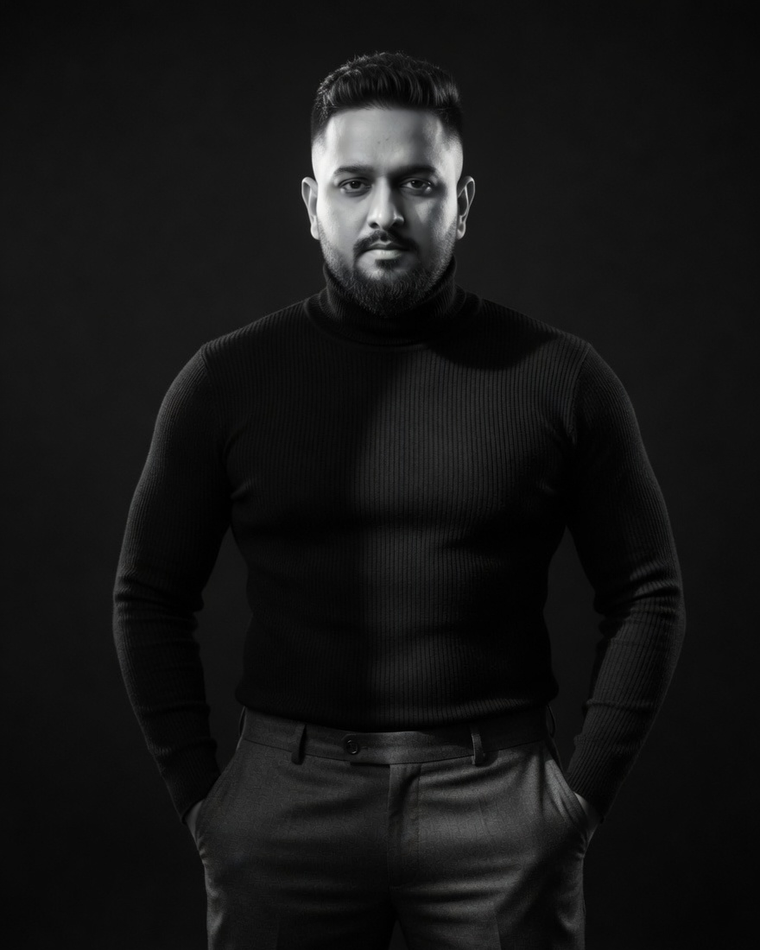
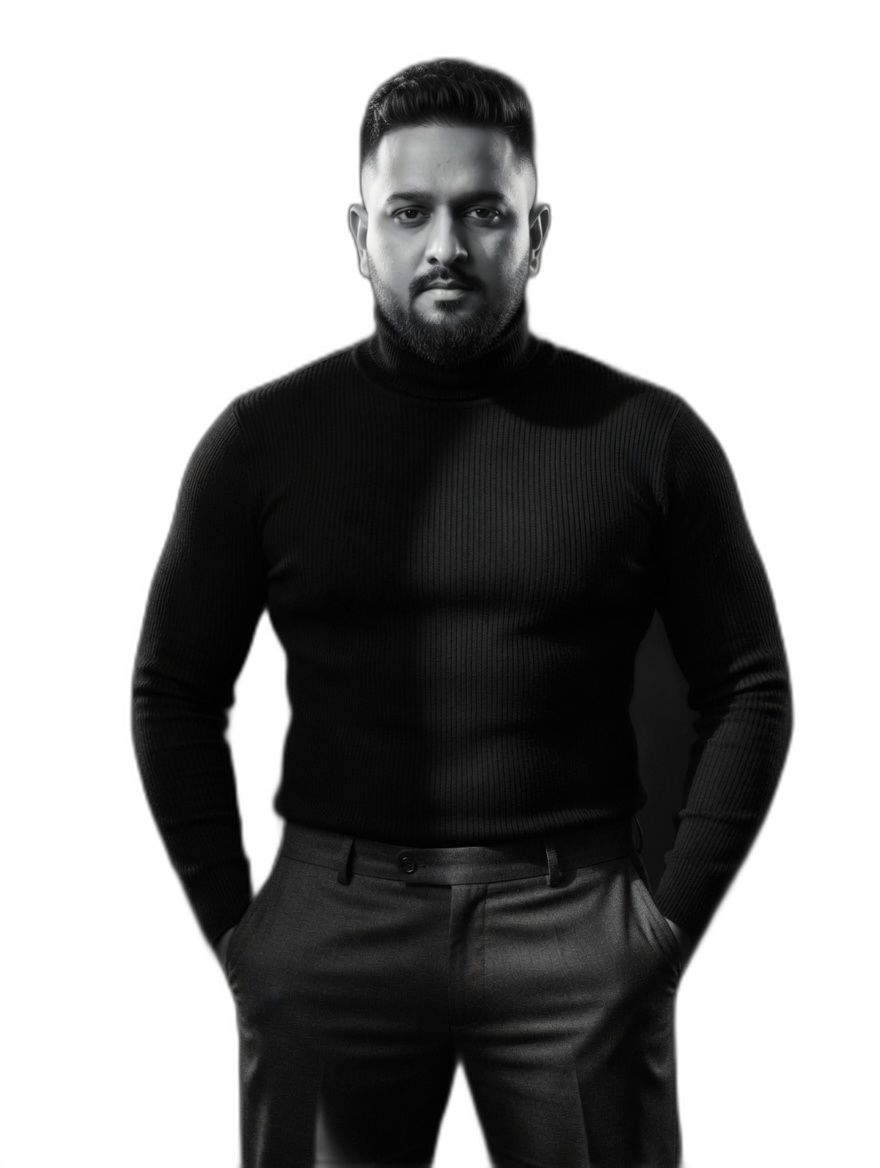
feat(hero): cutout portrait (bg removed via rembg) + multi-dimensional hex masking on FlipPhotoCard — 3 hex-clipped layers (natural cyan top-left, wireframe edge-detect bottom-right, RGB-split glitch centre) with offset transforms + accent hex outline overlay; HeroPortrait3D moved to right side, sca

diff --git a/components/r3f/FlipPhotoCard.tsx b/components/r3f/FlipPhotoCard.tsx
@@ -1,15 +1,16 @@
 'use client'
 
-// FlipPhotoCard — holographic projection of the Shah Fahad sticker silhouette.
-// Layered effects (back to front):
+// FlipPhotoCard — holographic projection of Shah Fahad with multi-dimensional
+// hexagonal masking. Layered effects (back to front):
 //   1. Light cone from below + projector ring (base/floor)
-//   2. Outer rotating HUD frame + corner brackets
-//   3. Portrait image with cyan recolor filter
-//   4. Two RGB-shifted ghost copies for chromatic aberration
-//   5. Scanlines overlay drifting downward
-//   6. Floating particles rising through the column
-//   7. Subtle random glitch (skew + clip) every few seconds
-//   8. Hint chip + sound state toggle (preserved from original)
+//   2. Outer corner brackets (HUD chrome)
+//   3. Base portrait (very faint, ghost layer for continuity)
+//   4. Three hex-clipped "tunnel windows", each with a different treatment:
+//      • Hex A — natural cyan-tinted portrait (top-left)
+//      • Hex B — wireframe / edge-detect look (bottom-right)
+//      • Hex C — RGB-split glitch (centre, smallest, on top)
+//   5. Scanlines overlay
+//   6. Hint chip + sound state toggle
 //
 // Click toggles `soundStore` which the IntroMiniPlayer reads to start/stop
 // the intro video in the HUD top-right.
@@ -21,6 +22,15 @@ interface FlipPhotoCardProps {
   /** Card width in px (defaults to 220) */
   width?: number
 }
+
+// Hex polygon clip-paths — 6 vertices in CSS percentage coordinates relative
+// to the image element. Three different positions/sizes so they reveal
+// different parts of the figure.
+const HEX_A = 'polygon(34% 4%, 64% 18%, 64% 46%, 34% 60%, 4% 46%, 4% 18%)'   // top-left, large
+const HEX_B = 'polygon(66% 40%, 96% 54%, 96% 82%, 66% 96%, 36% 82%, 36% 54%)' // bottom-right, large
+const HEX_C = 'polygon(50% 28%, 72% 40%, 72% 64%, 50% 76%, 28% 64%, 28% 40%)' // centre, smaller
+
+const PORTRAIT_SRC = '/images/shah-fahad-sticker.png'
 
 export function FlipPhotoCard({ accent, width = 220 }: FlipPhotoCardProps) {
   const [sound, setSound] = useSound()
@@ -72,7 +82,6 @@ export function FlipPhotoCard({ accent, width = 220 }: FlipPhotoCardProps) {
         <ellipse cx="100" cy="30" rx="92" ry="14" fill="none" stroke={accent} strokeWidth="1"  strokeOpacity="0.55" />
         <ellipse cx="100" cy="30" rx="72" ry="11" fill="none" stroke={accent} strokeWidth="0.7" strokeOpacity="0.35" />
         <ellipse cx="100" cy="30" rx="48" ry="7.5" fill="none" stroke={accent} strokeWidth="0.6" strokeOpacity="0.22" />
-        {/* tick marks around outer ring */}
         {Array.from({ length: 12 }).map((_, i) => {
           const ang = (i / 12) * Math.PI * 2
           const x1 = 100 + Math.cos(ang) * 92
@@ -107,27 +116,99 @@ export function FlipPhotoCard({ accent, width = 220 }: FlipPhotoCardProps) {
         )
       })}
 
-      {/* ─── 3. Portrait with cyan hologram filter (no RGB ghosts) ──────── */}
+      {/* ─── Base ghost portrait — very low opacity continuity layer ───── */}
       {/* eslint-disable-next-line @next/next/no-img-element */}
       <img
-        src="/images/shah-fahad-sticker.png"
+        src={PORTRAIT_SRC}
         alt="Shah Fahad portrait"
         style={{
           position: 'absolute', inset: 0,
           width: '100%', height: '100%',
           objectFit: 'contain', objectPosition: 'bottom',
-          filter: `
-            hue-rotate(160deg)
-            saturate(1.4)
-            brightness(1.15)
-            contrast(1.05)
-            drop-shadow(0 0 10px ${hexAlpha(accent, 0.8)})
-            drop-shadow(0 0 22px ${hexAlpha(accent, 0.45)})
-          `,
-          opacity: 0.92,
+          filter: `hue-rotate(170deg) saturate(1.2) brightness(1.05) contrast(1.05) drop-shadow(0 0 12px ${hexAlpha(accent, 0.45)})`,
+          opacity: 0.28,
           pointerEvents: 'none',
         }}
       />
+
+      {/* ─── Hex A — natural cyan-tinted portrait (top-left) ─────────────── */}
+      {/* eslint-disable-next-line @next/next/no-img-element */}
+      <img
+        src={PORTRAIT_SRC}
+        alt=""
+        aria-hidden="true"
+        style={{
+          position: 'absolute', inset: 0,
+          width: '100%', height: '100%',
+          objectFit: 'contain', objectPosition: 'bottom',
+          clipPath: HEX_A,
+          WebkitClipPath: HEX_A,
+          filter: `hue-rotate(170deg) saturate(1.6) brightness(1.18) contrast(1.08) drop-shadow(0 0 8px ${hexAlpha(accent, 0.7)})`,
+          transform: 'translate(-2px, -1px)',
+          opacity: 0.95,
+          pointerEvents: 'none',
+        }}
+      />
+
+      {/* ─── Hex B — wireframe / edge-detect look (bottom-right) ─────────── */}
+      {/* eslint-disable-next-line @next/next/no-img-element */}
+      <img
+        src={PORTRAIT_SRC}
+        alt=""
+        aria-hidden="true"
+        style={{
+          position: 'absolute', inset: 0,
+          width: '100%', height: '100%',
+          objectFit: 'contain', objectPosition: 'bottom',
+          clipPath: HEX_B,
+          WebkitClipPath: HEX_B,
+          filter: `grayscale(1) invert(1) contrast(2.1) brightness(0.85) hue-rotate(170deg) saturate(2.5)`,
+          mixBlendMode: 'screen',
+          transform: 'translate(2px, 1px)',
+          opacity: 0.85,
+          pointerEvents: 'none',
+        }}
+      />
+
+      {/* ─── Hex C — RGB-split glitch (centre, on top) ───────────────────── */}
+      {/* eslint-disable-next-line @next/next/no-img-element */}
+      <img
+        src={PORTRAIT_SRC}
+        alt=""
+        aria-hidden="true"
+        style={{
+          position: 'absolute', inset: 0,
+          width: '100%', height: '100%',
+          objectFit: 'contain', objectPosition: 'bottom',
+          clipPath: HEX_C,
+          WebkitClipPath: HEX_C,
+          filter: `hue-rotate(180deg) saturate(2) brightness(1.1) contrast(1.2) drop-shadow(2px 0 0 rgba(255,40,90,0.55)) drop-shadow(-2px 0 0 rgba(0,200,255,0.55))`,
+          transform: 'translate(0, 2px)',
+          opacity: 0.95,
+          pointerEvents: 'none',
+        }}
+      />
+
+      {/* Thin accent outline along each hex — gives the "window into another
+          tunnel" framing. SVG overlay covering the full card. */}
+      <svg
+        aria-hidden="true"
+        viewBox="0 0 100 100"
+        preserveAspectRatio="none"
+        style={{
+          position: 'absolute', inset: 0,
+          width: '100%', height: '100%',
+          pointerEvents: 'none',
+          opacity: 0.85,
+        }}
+      >
+        <polygon points="34,4 64,18 64,46 34,60 4,46 4,18"
+          fill="none" stroke={accent} strokeOpacity="0.6" strokeWidth="0.4" />
+        <polygon points="66,40 96,54 96,82 66,96 36,82 36,54"
+          fill="none" stroke={accent} strokeOpacity="0.45" strokeWidth="0.4" />
+        <polygon points="50,28 72,40 72,64 50,76 28,64 28,40"
+          fill="none" stroke="#C6F8EE" strokeOpacity="0.7" strokeWidth="0.35" />
+      </svg>
 
       {/* Scanlines — static, no animation */}
       <div
@@ -136,18 +217,18 @@ export function FlipPhotoCard({ accent, width = 220 }: FlipPhotoCardProps) {
           position: 'absolute', inset: 0,
           backgroundImage: `repeating-linear-gradient(
             to bottom,
-            ${hexAlpha(accent, 0.16)} 0px,
-            ${hexAlpha(accent, 0.16)} 1px,
+            ${hexAlpha(accent, 0.14)} 0px,
+            ${hexAlpha(accent, 0.14)} 1px,
             transparent 1px,
             transparent 3px
           )`,
           mixBlendMode: 'overlay',
-          opacity: 0.5,
+          opacity: 0.45,
           pointerEvents: 'none',
         }}
       />
 
-      {/* ─── Hint chip — preserved from original ────────────────────────── */}
+      {/* ─── Hint chip ─────────────────────────────────────────────────── */}
       <div
         aria-hidden="true"
         style={{

diff --git a/components/r3f/TunnelScene.tsx b/components/r3f/TunnelScene.tsx
@@ -1089,18 +1089,18 @@ function HeroPortrait3D({
 
   return (
     <group ref={groupRef}>
-      {/* Offset downstream so camera approaches the card head-on instead of
-          passing through it (same z=-4 trick as the solar system). */}
-      <group position={[0, 0, -4]}>
+      {/* Offset to the right + downstream so camera approaches the card
+          head-on, with the figure sitting on the right side of the view. */}
+      <group position={[2.4, 0, -4]}>
         <Html
           transform
           position={[0, 0, 0]}
-          distanceFactor={4.2}
+          distanceFactor={3.4}
           pointerEvents="auto"
           center
         >
           <div ref={wrapRef} style={{ opacity: 0, transition: 'opacity 140ms linear' }}>
-            <FlipPhotoCard accent={accent} width={260} />
+            <FlipPhotoCard accent={accent} width={380} />
           </div>
         </Html>
       </group>
